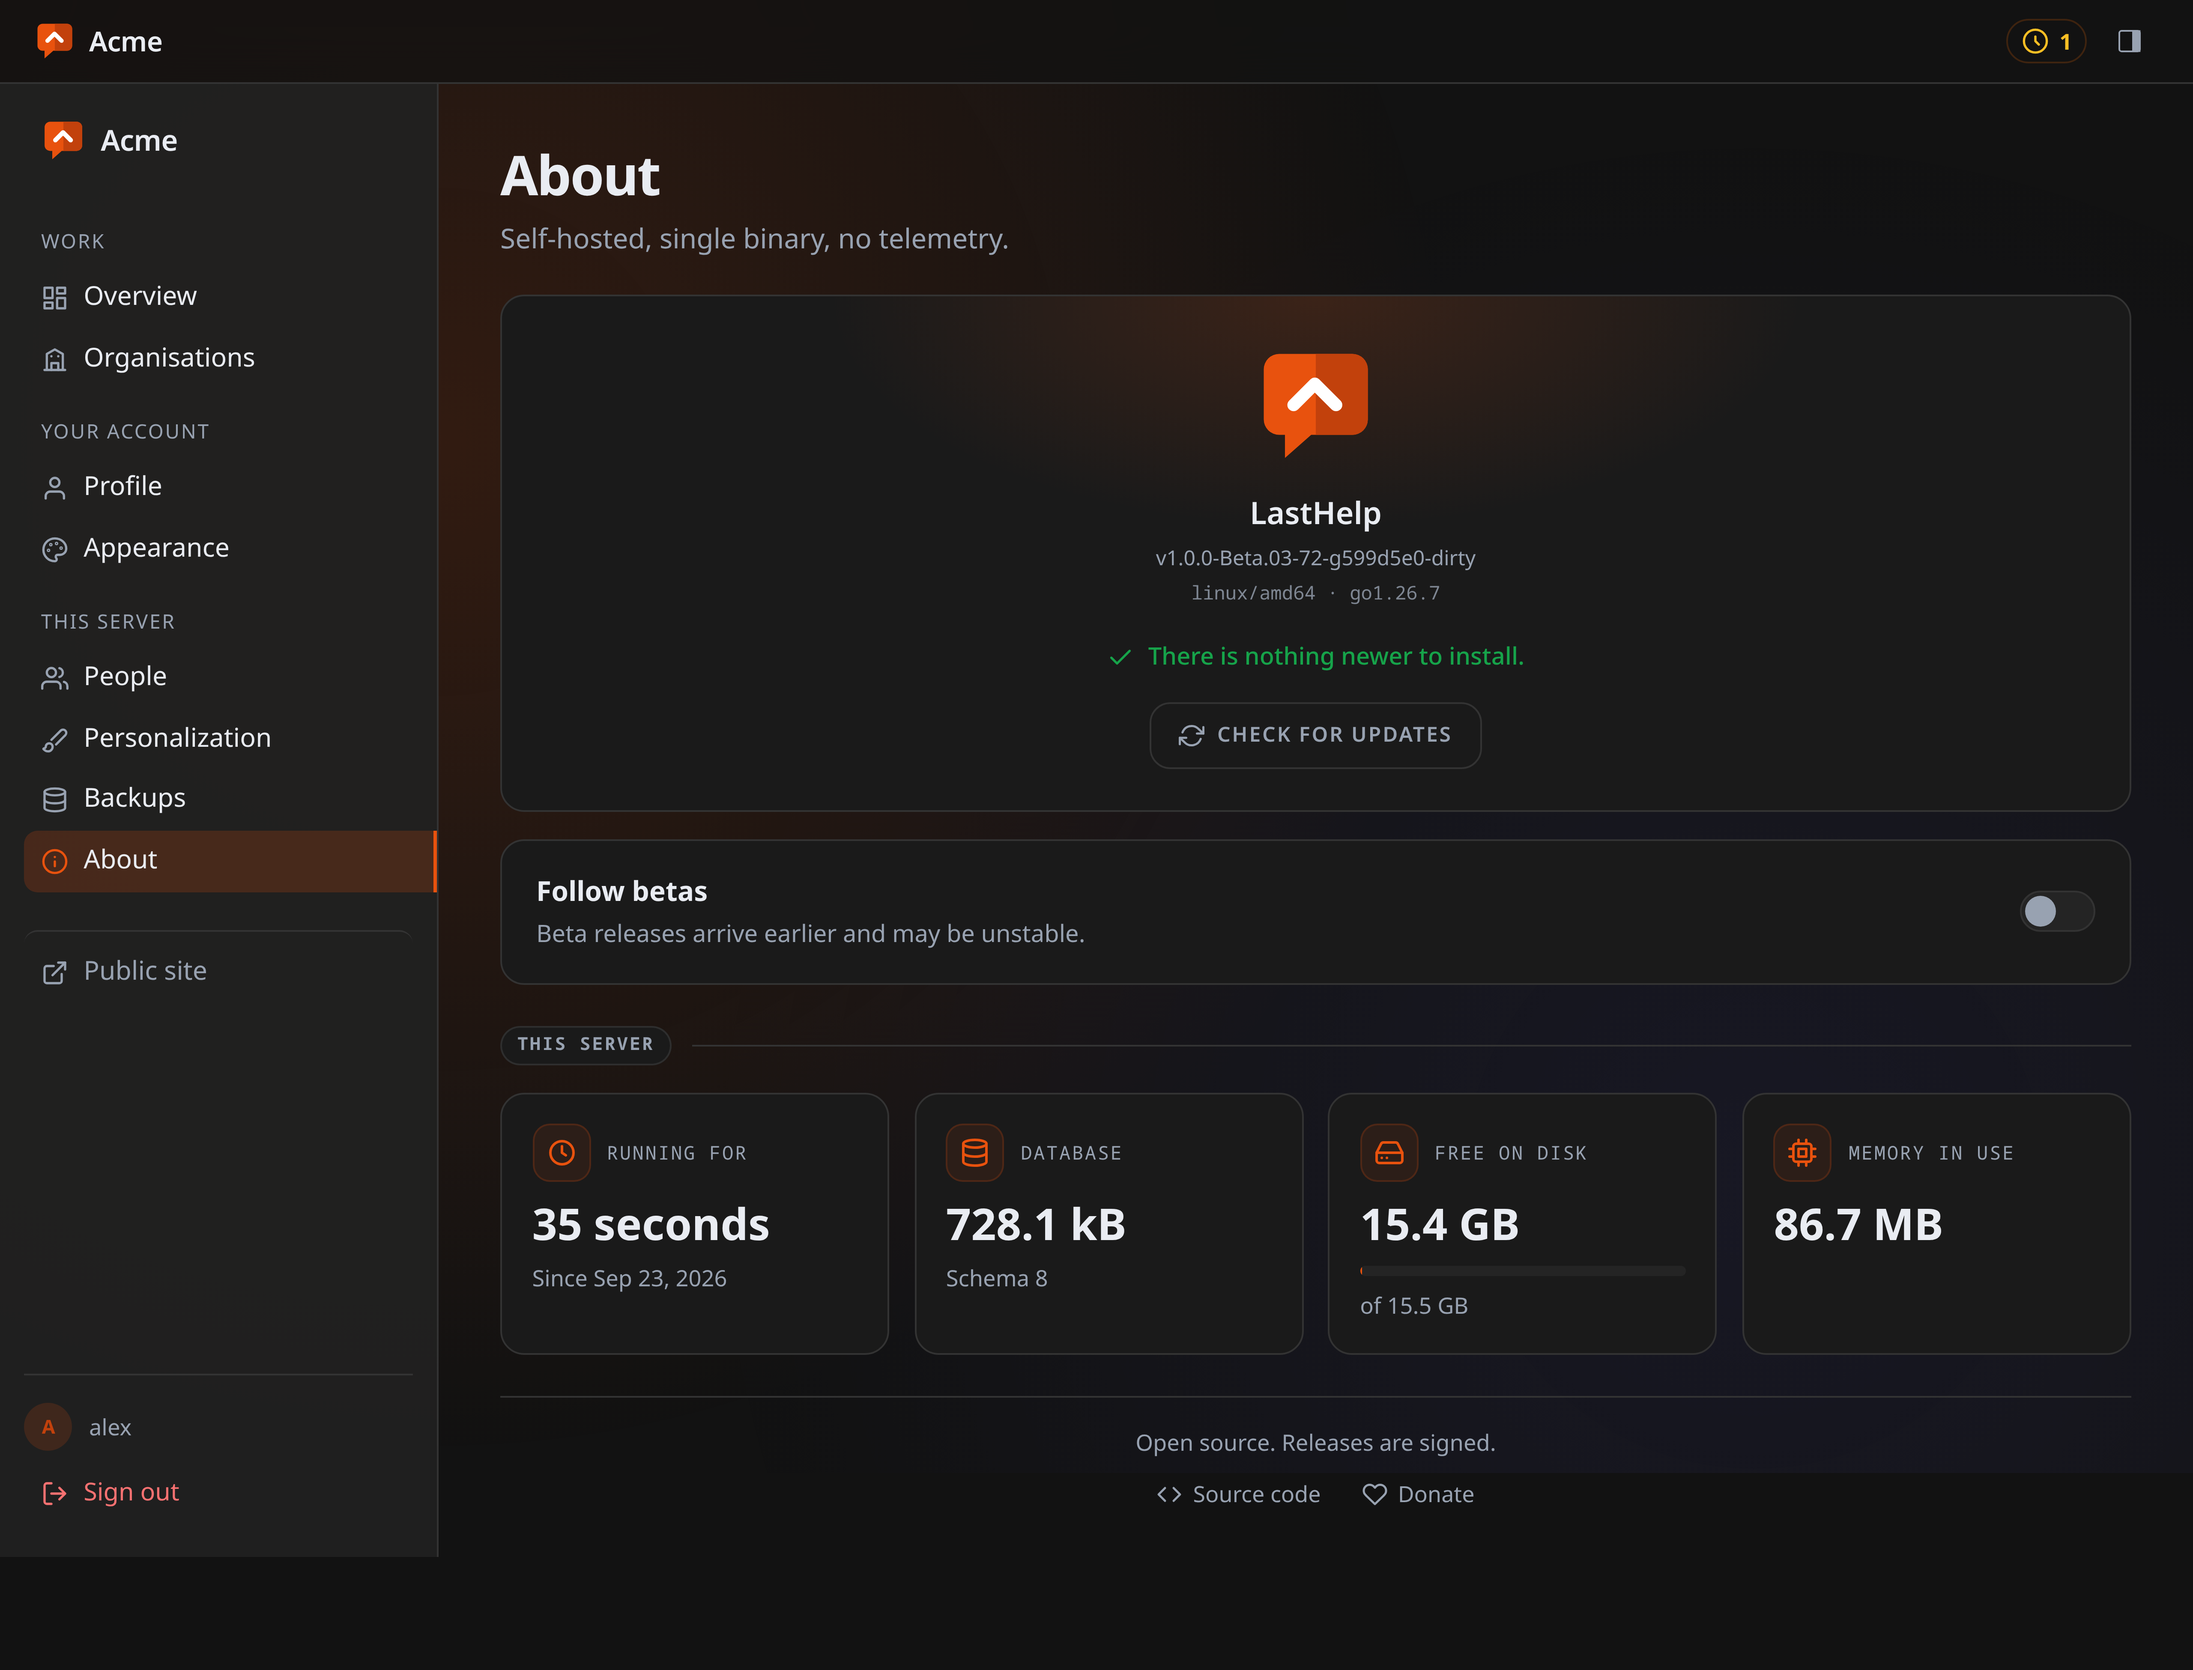
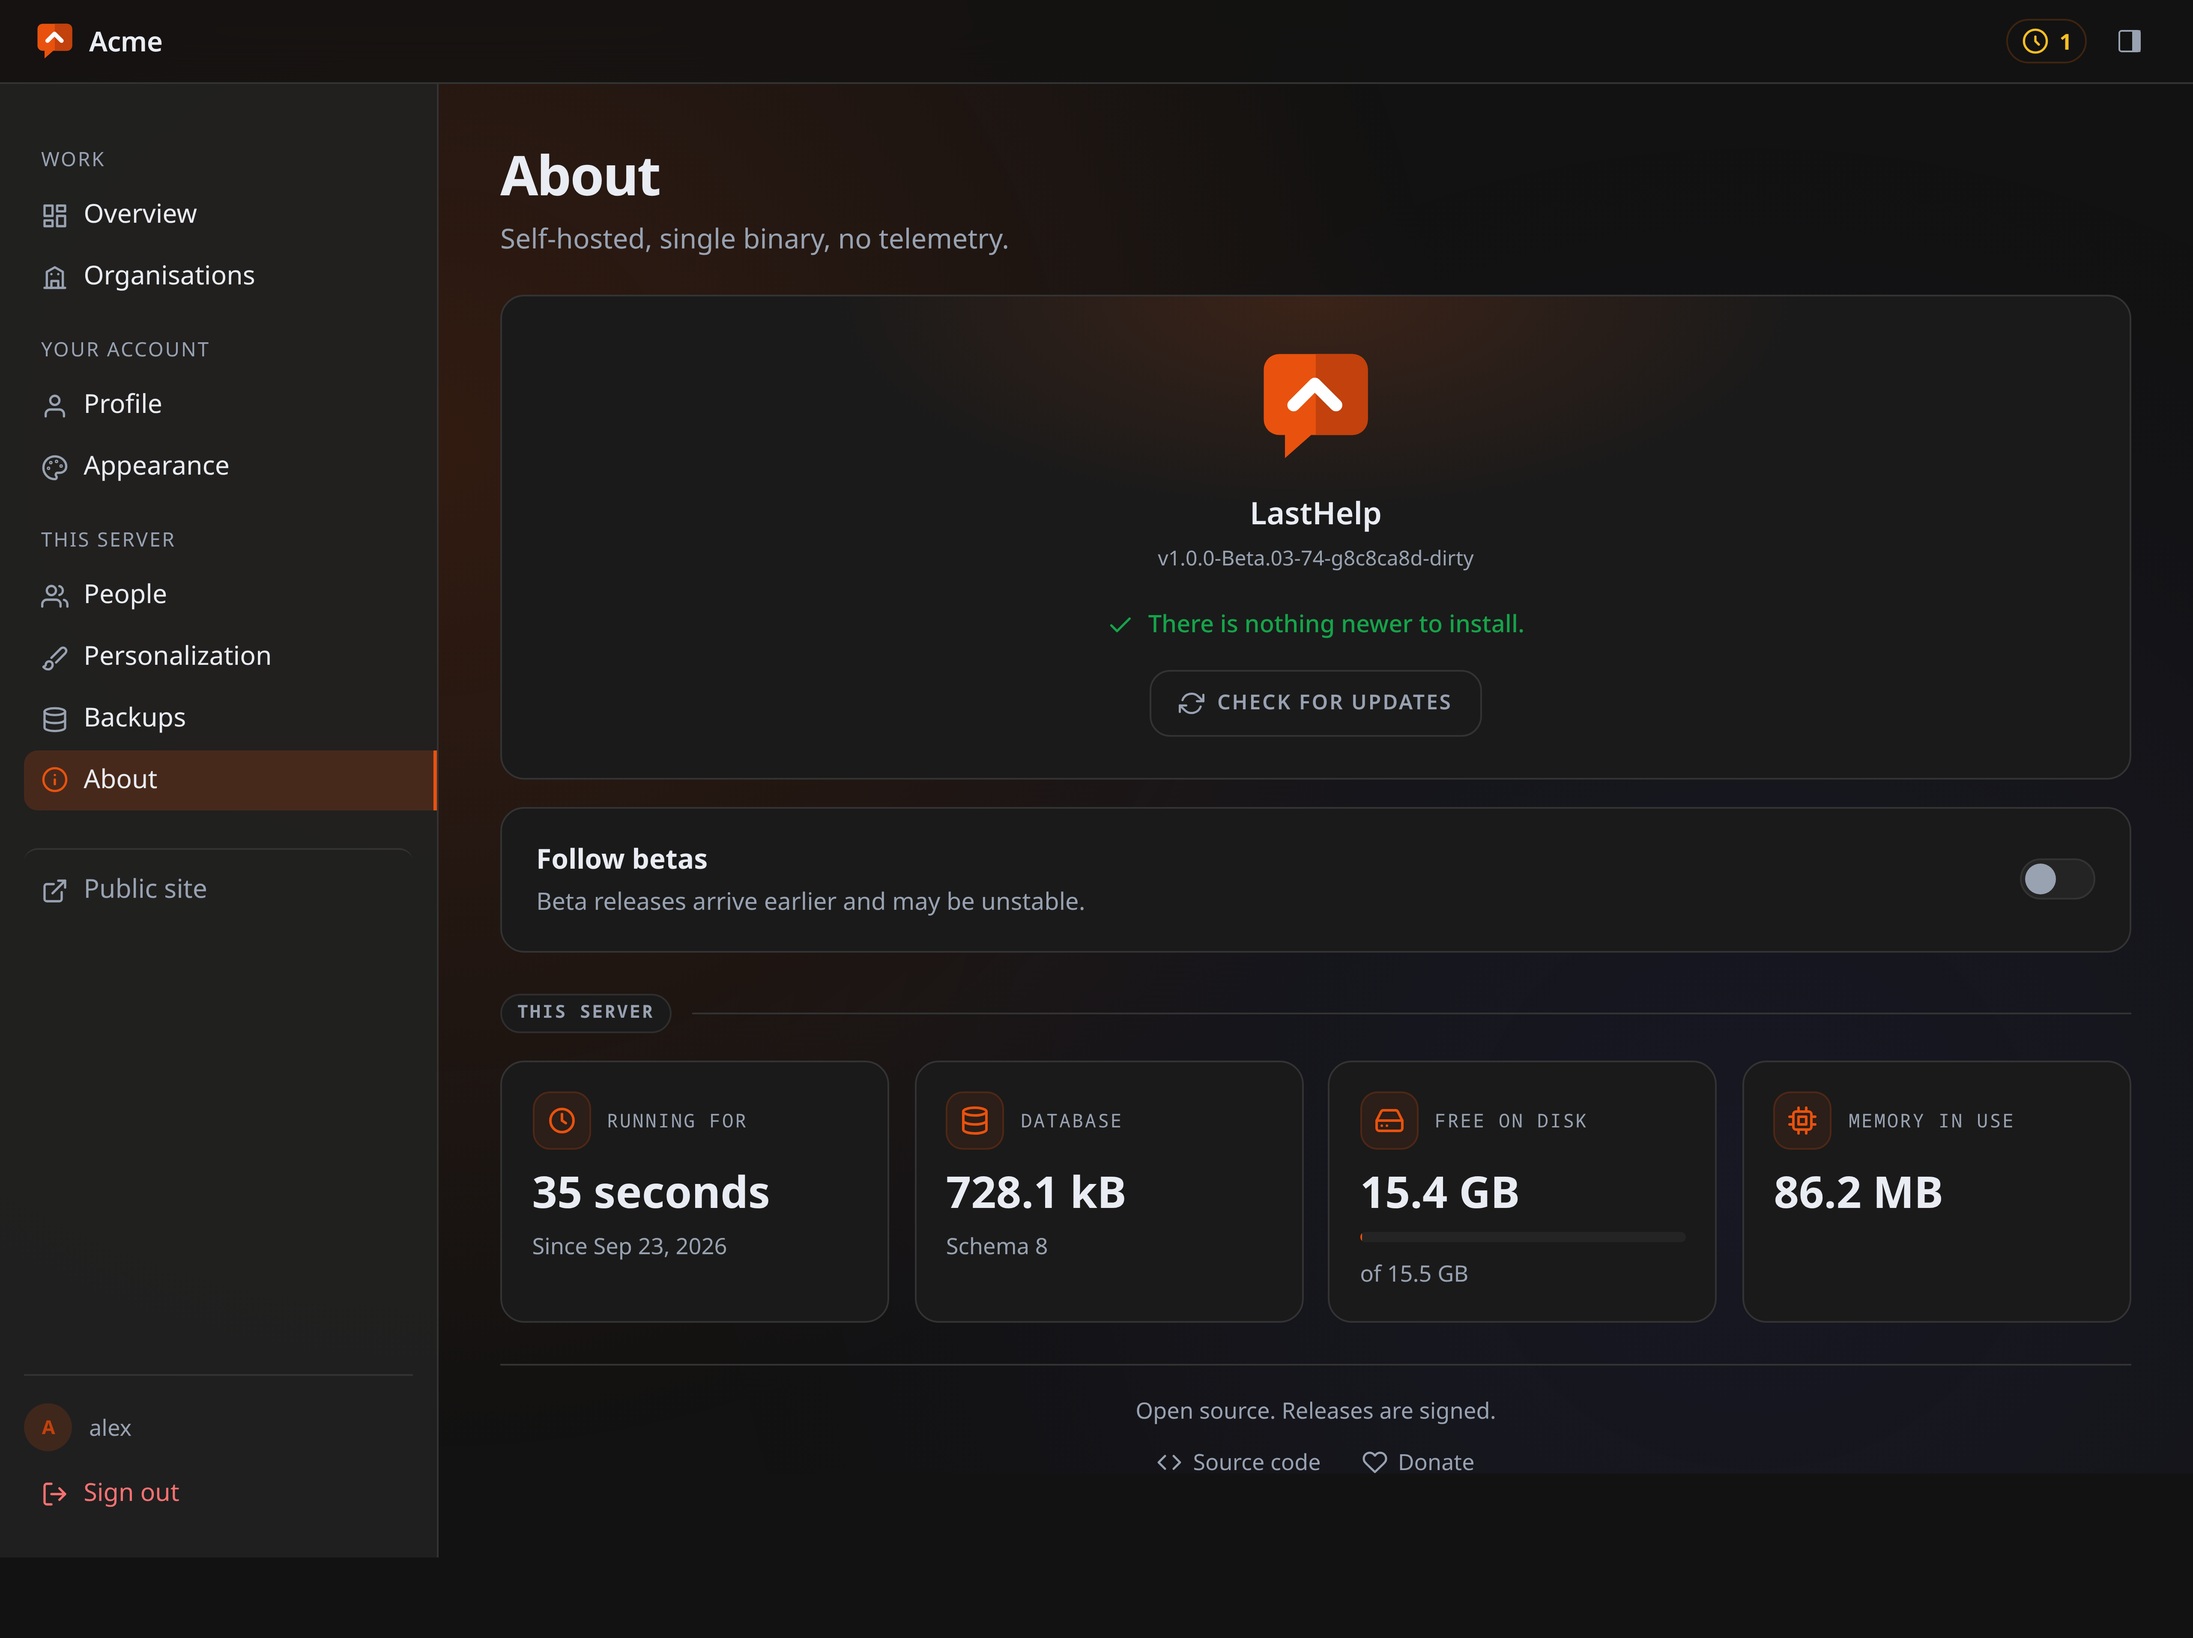
fix(panel): one mark on screen, and About without the build line
The panel's menu opened with the installation's mark and name a few pixels
under the bar's, which already carries both; the menu starts at its first
group now. About no longer prints the platform and compiler under the
version, a line nobody opening that page came for.

The drive pass counts the marks on screen and looks for a build line under
the version; both fail by name when either comes back.

diff --git a/scripts/drive-check.ts b/scripts/drive-check.ts
@@ -830,6 +830,9 @@ async function main() {
       values: tiles.map(t => t.querySelector(".about-stat-value")?.textContent?.trim() ?? ""),
       meter: meter ? { value: meter.value, max: meter.max, ancho: Math.round(r.width), alto: Math.round(r.height) } : null,
       links: [...document.querySelectorAll(".about-links a")].map(a => a.getAttribute("href")),
+      // Under the version, nothing about the build: the platform and the
+      // compiler were a line nobody opening this page came for.
+      plataforma: /linux|darwin|windows|go1\./.test(document.querySelector(".about-hero")?.textContent ?? ""),
       // The name sits under its mark. The panel's heading rule gave every h2
       // 36px above it and pushed the name half a card away from the logo.
       bajoElLogo: Math.round(
@@ -844,11 +847,12 @@ async function main() {
     JSON.stringify(about.values),
   );
   check(
-    "About sits together: the name under its mark, the disk as a bar with a real length, the links out",
+    "About sits together: the name under its mark, no build line, the disk as a bar with a real length, the links out",
     about.meter !== null && about.meter.max > 0 && about.meter.value >= 0 &&
       about.meter.value <= about.meter.max && about.meter.ancho > 100 && about.meter.alto >= 4 &&
-      about.links.length === 2 && about.bajoElLogo >= 8 && about.bajoElLogo <= 20,
-    JSON.stringify({ meter: about.meter, links: about.links, bajoElLogo: about.bajoElLogo }),
+      about.links.length === 2 && about.bajoElLogo >= 8 && about.bajoElLogo <= 20 &&
+      about.plataforma === false,
+    JSON.stringify({ meter: about.meter, links: about.links, bajoElLogo: about.bajoElLogo, plataforma: about.plataforma }),
   );
 
   // 11c. The panel on a phone: its menu is a strip across the top that scrolls
@@ -980,6 +984,10 @@ async function main() {
       // the side. A link to a page in both is the fault this was written for.
       barraVisible: getComputedStyle(document.querySelector("body > nav")).display !== "none",
       enlacesEnLaBarra: document.querySelectorAll("body > nav a[href^='/panel']").length,
+      // One mark on screen. The menu used to open with the installation's
+      // mark and name a few pixels under the bar's, the same thing twice.
+      marcasALaVista: [...document.querySelectorAll(".brand-logo")]
+        .filter(m => m.getBoundingClientRect().width > 0).length,
     };`);
   check(
     "the administration shows its options down one side",
@@ -987,9 +995,9 @@ async function main() {
     `${sidebar.items.join(" · ")} — on "${sidebar.current}" as ${sidebar.who}`,
   );
   check(
-    "and does not stack two navigations on top of each other",
-    sidebar.barraVisible === true && sidebar.enlacesEnLaBarra === 0,
-    JSON.stringify({ barra: sidebar.barraVisible, enlaces: sidebar.enlacesEnLaBarra }),
+    "and does not stack two navigations, or two marks, on top of each other",
+    sidebar.barraVisible === true && sidebar.enlacesEnLaBarra === 0 && sidebar.marcasALaVista === 1,
+    JSON.stringify({ barra: sidebar.barraVisible, enlaces: sidebar.enlacesEnLaBarra, marcas: sidebar.marcasALaVista }),
   );
 
   // The bar on the chosen row is a join between it and the panel it opened, so

diff --git a/web/src/views/templates.ts b/web/src/views/templates.ts
@@ -2706,8 +2706,6 @@ export interface ShellSpec {
   isAdmin: boolean;
   /** True for anybody who may create an organisation. */
   mayAddOrganization: boolean;
-  instance: string;
-  logo?: string;
   avatar?: string;
   content: string;
   /** What is waiting, already narrowed by the server to what this account may open. */
@@ -2744,10 +2742,9 @@ export function adminShell(spec: ShellSpec, text: Text): string {
 
   return `<div class="admin">
     <aside class="side">
-      <a class="brand" href="/">
-        ${brandMark(spec.logo, 26)}
-        <span>${escapeHTML(spec.instance)}</span>
-      </a>
+      <!-- No mark and name at the head of the menu: the bar above already
+           carries both, a few pixels higher, and the two read as the same
+           thing said twice. -->
       <nav aria-label="${escapeAttr(text.t("nav.panel"))}">
         ${group(
           text.t("shell.groupWork"),
@@ -3881,7 +3878,6 @@ export function aboutScreen(facts: ServerFacts, text: Text): string {
         <img class="about-logo" src="/logo.svg" alt="" width="72" height="72" />
         <h2 class="about-name">${escapeHTML(text.t("app.name"))}</h2>
         <p class="about-version">${escapeHTML(facts.version || "—")}</p>
-        ${facts.os ? `<p class="about-built">${escapeHTML(`${facts.os} · ${facts.go ?? ""}`.trim())}</p>` : ""}
         <div class="about-update" data-update-zone>${updateZone("checking", text)}</div>
         <button type="button" class="button ghost with-icon about-check" data-check hidden>
           ${icons.update(15)}<span>${escapeHTML(text.t("update.check"))}</span></button>

diff --git a/web/styles/theme.css b/web/styles/theme.css
@@ -1858,17 +1858,6 @@ body.admin-view > main {
   overflow-y: auto;
 }
 
-/* Merged from three declarations spread over fifteen hundred lines: the layout
-   came from one, the padding from another, and the size from the last, which
-   was the only one that counted. */
-.side .brand {
-  display: flex;
-  align-items: center;
-  gap: 0.55rem;
-  font-size: 1.05rem;
-  padding: 0 0.6rem 1rem;
-}
-
 .side-label {
   margin: 1rem 0 0.35rem;
   padding-inline-start: 0.6rem;
@@ -2031,7 +2020,6 @@ body.admin-view > main {
     padding: 0.6rem 0.75rem;
   }
 
-  .side .brand,
   .side-label,
   .side-foot .who {
     display: none;
@@ -3201,7 +3189,6 @@ body > nav .brand {
    half a card away from its mark. */
 .about .about-name { margin: 0 0 2px; font-size: 18px; font-weight: 600; letter-spacing: 0; }
 .about-version { margin: 0; font-size: 12px; color: var(--text-dim); font-variant-numeric: tabular-nums; }
-.about-built { margin: 2px 0 0; font-family: var(--font-mono); font-size: 11px; color: var(--text-dim); opacity: 0.8; }
 
 .about-update {
   inline-size: 100%;

diff --git a/web/src/main.ts b/web/src/main.ts
@@ -1353,8 +1353,6 @@ async function showInShell(content: string, path: string): Promise<void> {
         who: me?.username ?? "",
         isAdmin: me?.admin === true,
         mayAddOrganization: me?.admin === true,
-        instance: instanceName || i18n.t("app.name"),
-        logo: instanceLogo,
         avatar: me?.avatar,
         waiting: me?.pending,
         content,
